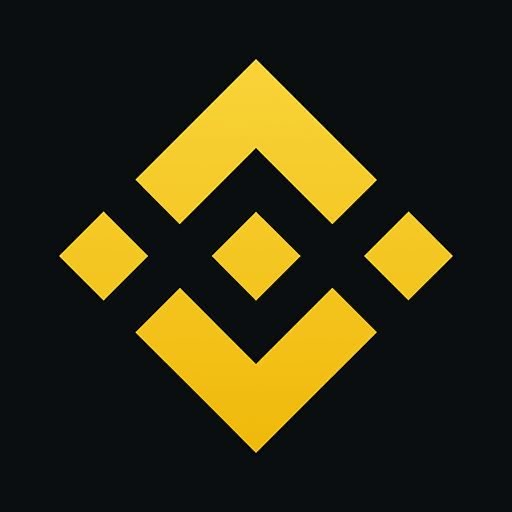
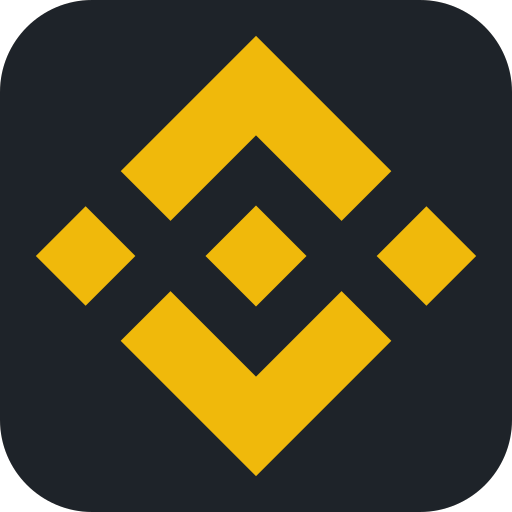
Update branding assets and remove splash screen
Replit-Commit-Author: Agent

diff --git a/artifacts/binance-mobile/index.html b/artifacts/binance-mobile/index.html
@@ -3,6 +3,8 @@
   <head>
     <meta charset="UTF-8" />
     <meta name="viewport" content="width=device-width, initial-scale=1.0, maximum-scale=1, viewport-fit=cover" />
+    <meta name="theme-color" content="#1E2329" />
+    <meta name="background-color" content="#1E2329" />
     <title>Binance Mobile</title>
     <meta name="description" content="Binance Mobile — built on Replit. Update this description to reflect the app." />
     <meta name="robots" content="index, follow" />
@@ -12,7 +14,22 @@
     <meta name="twitter:card" content="summary_large_image" />
     <meta name="twitter:title" content="Binance Mobile" />
     <meta name="twitter:description" content="Binance Mobile — built on Replit. Update this description to reflect the app." />
-    <link rel="icon" type="image/svg+xml" href="/favicon.svg" />
+    <link rel="manifest" href="%BASE_URL%manifest.webmanifest" />
+    <link rel="icon" type="image/svg+xml" href="%BASE_URL%favicon.svg" />
+    <link rel="alternate icon" type="image/x-icon" href="%BASE_URL%favicon.ico" />
+    <link rel="apple-touch-icon" href="%BASE_URL%apple-touch-icon.png" />
+    <script>
+      try {
+        const theme = localStorage.getItem("theme") || "dark";
+        document.documentElement.classList.toggle("dark", theme === "dark");
+      } catch {
+        document.documentElement.classList.add("dark");
+      }
+    </script>
+    <style>
+      html { background-color: #1E2329; }
+      html:not(.dark) { background-color: #F8F7F4; }
+    </style>
     <link rel="preconnect" href="https://fonts.googleapis.com">
     <link rel="preconnect" href="https://fonts.gstatic.com" crossorigin>
     <link href="https://fonts.googleapis.com/css2?family=Inter:wght@400;500;600;700&display=swap" rel="stylesheet">

diff --git a/artifacts/binance-mobile/src/App.tsx b/artifacts/binance-mobile/src/App.tsx
@@ -1,10 +1,9 @@
-import { useState, useEffect } from "react";
+import { useEffect } from "react";
 import { Toaster } from "@/components/ui/toaster";
 import { Toaster as Sonner } from "@/components/ui/sonner";
 import { TooltipProvider } from "@/components/ui/tooltip";
 import { QueryClient, QueryClientProvider } from "@tanstack/react-query";
 import { BrowserRouter, Routes, Route } from "react-router-dom";
-import SplashScreen from "./components/SplashScreen";
 import Index from "./pages/Index";
 import Markets from "./pages/Markets";
 import News from "./pages/News";
@@ -16,8 +15,6 @@ import NotFound from "./pages/NotFound";
 const queryClient = new QueryClient();
 
 const App = () => {
-  const [showSplash, setShowSplash] = useState(true);
-
   // Initialize theme on app load
   useEffect(() => {
     const savedTheme = localStorage.getItem("theme") || "dark";
@@ -33,7 +30,6 @@ const App = () => {
       <TooltipProvider>
         <Toaster />
         <Sonner />
-        {showSplash && <SplashScreen onComplete={() => setShowSplash(false)} />}
         <BrowserRouter>
           <Routes>
             <Route path="/" element={<Index />} />

diff --git a/artifacts/binance-mobile/src/index.css b/artifacts/binance-mobile/src/index.css
@@ -104,7 +104,7 @@
   overflow-x: clip;
 }
 .page-content {
-  padding-bottom: calc(92px + env(safe-area-inset-bottom, 0px));
+  padding-bottom: calc(60px + env(safe-area-inset-bottom, 0px));
 }
 .assets-tabs {
   padding-top: calc(env(safe-area-inset-top, 0px) + 5px);
